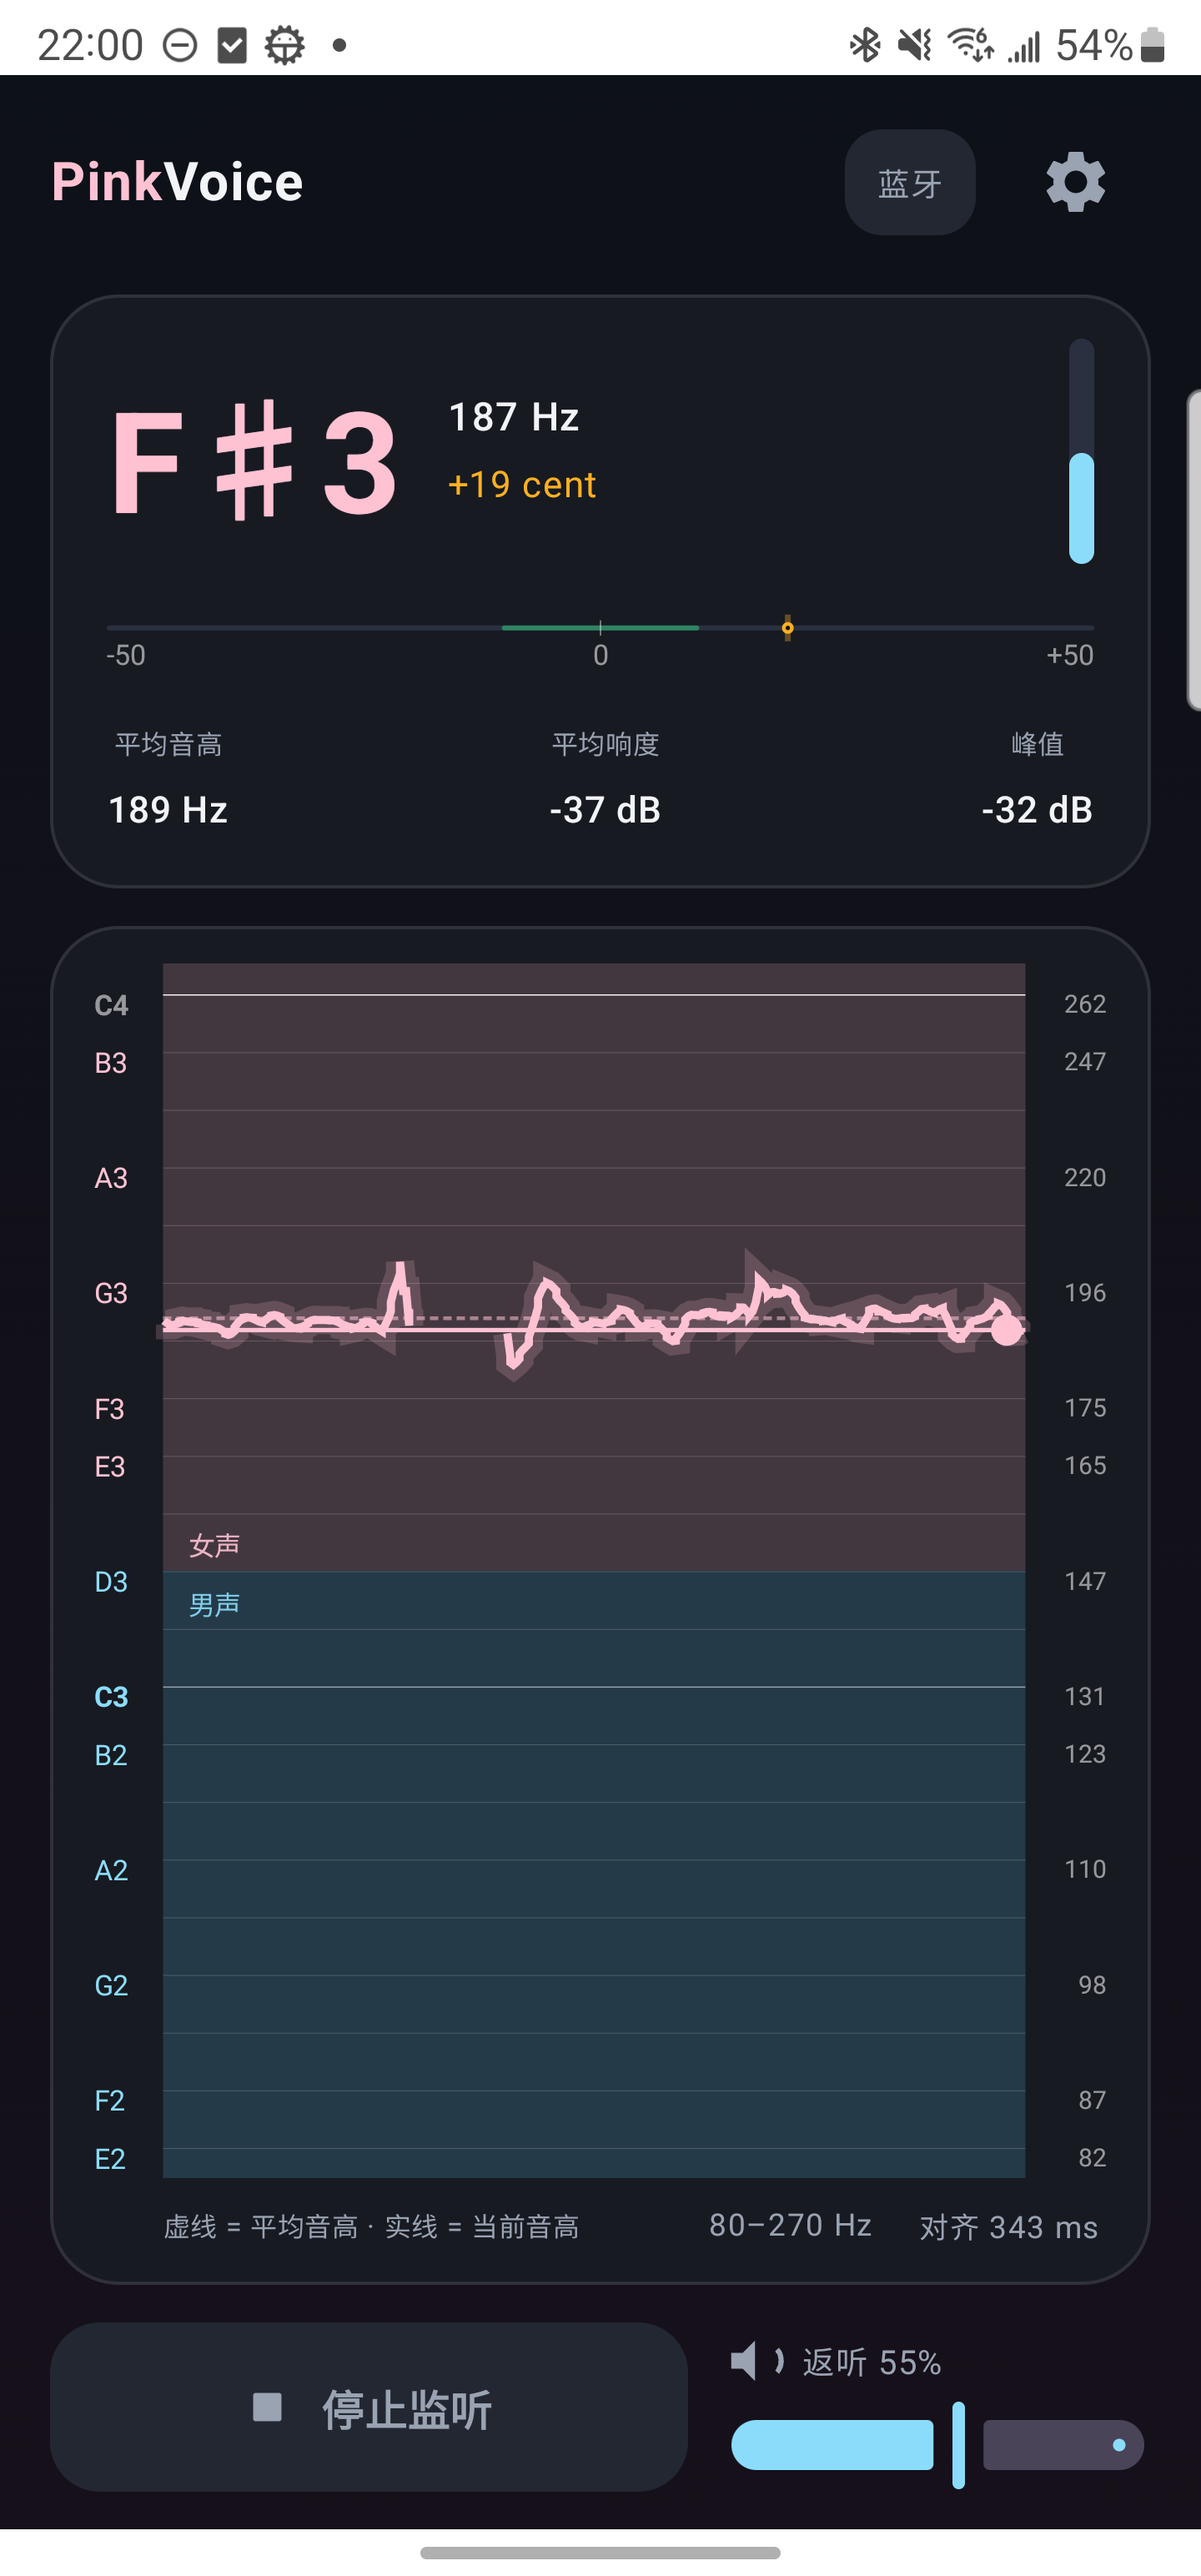
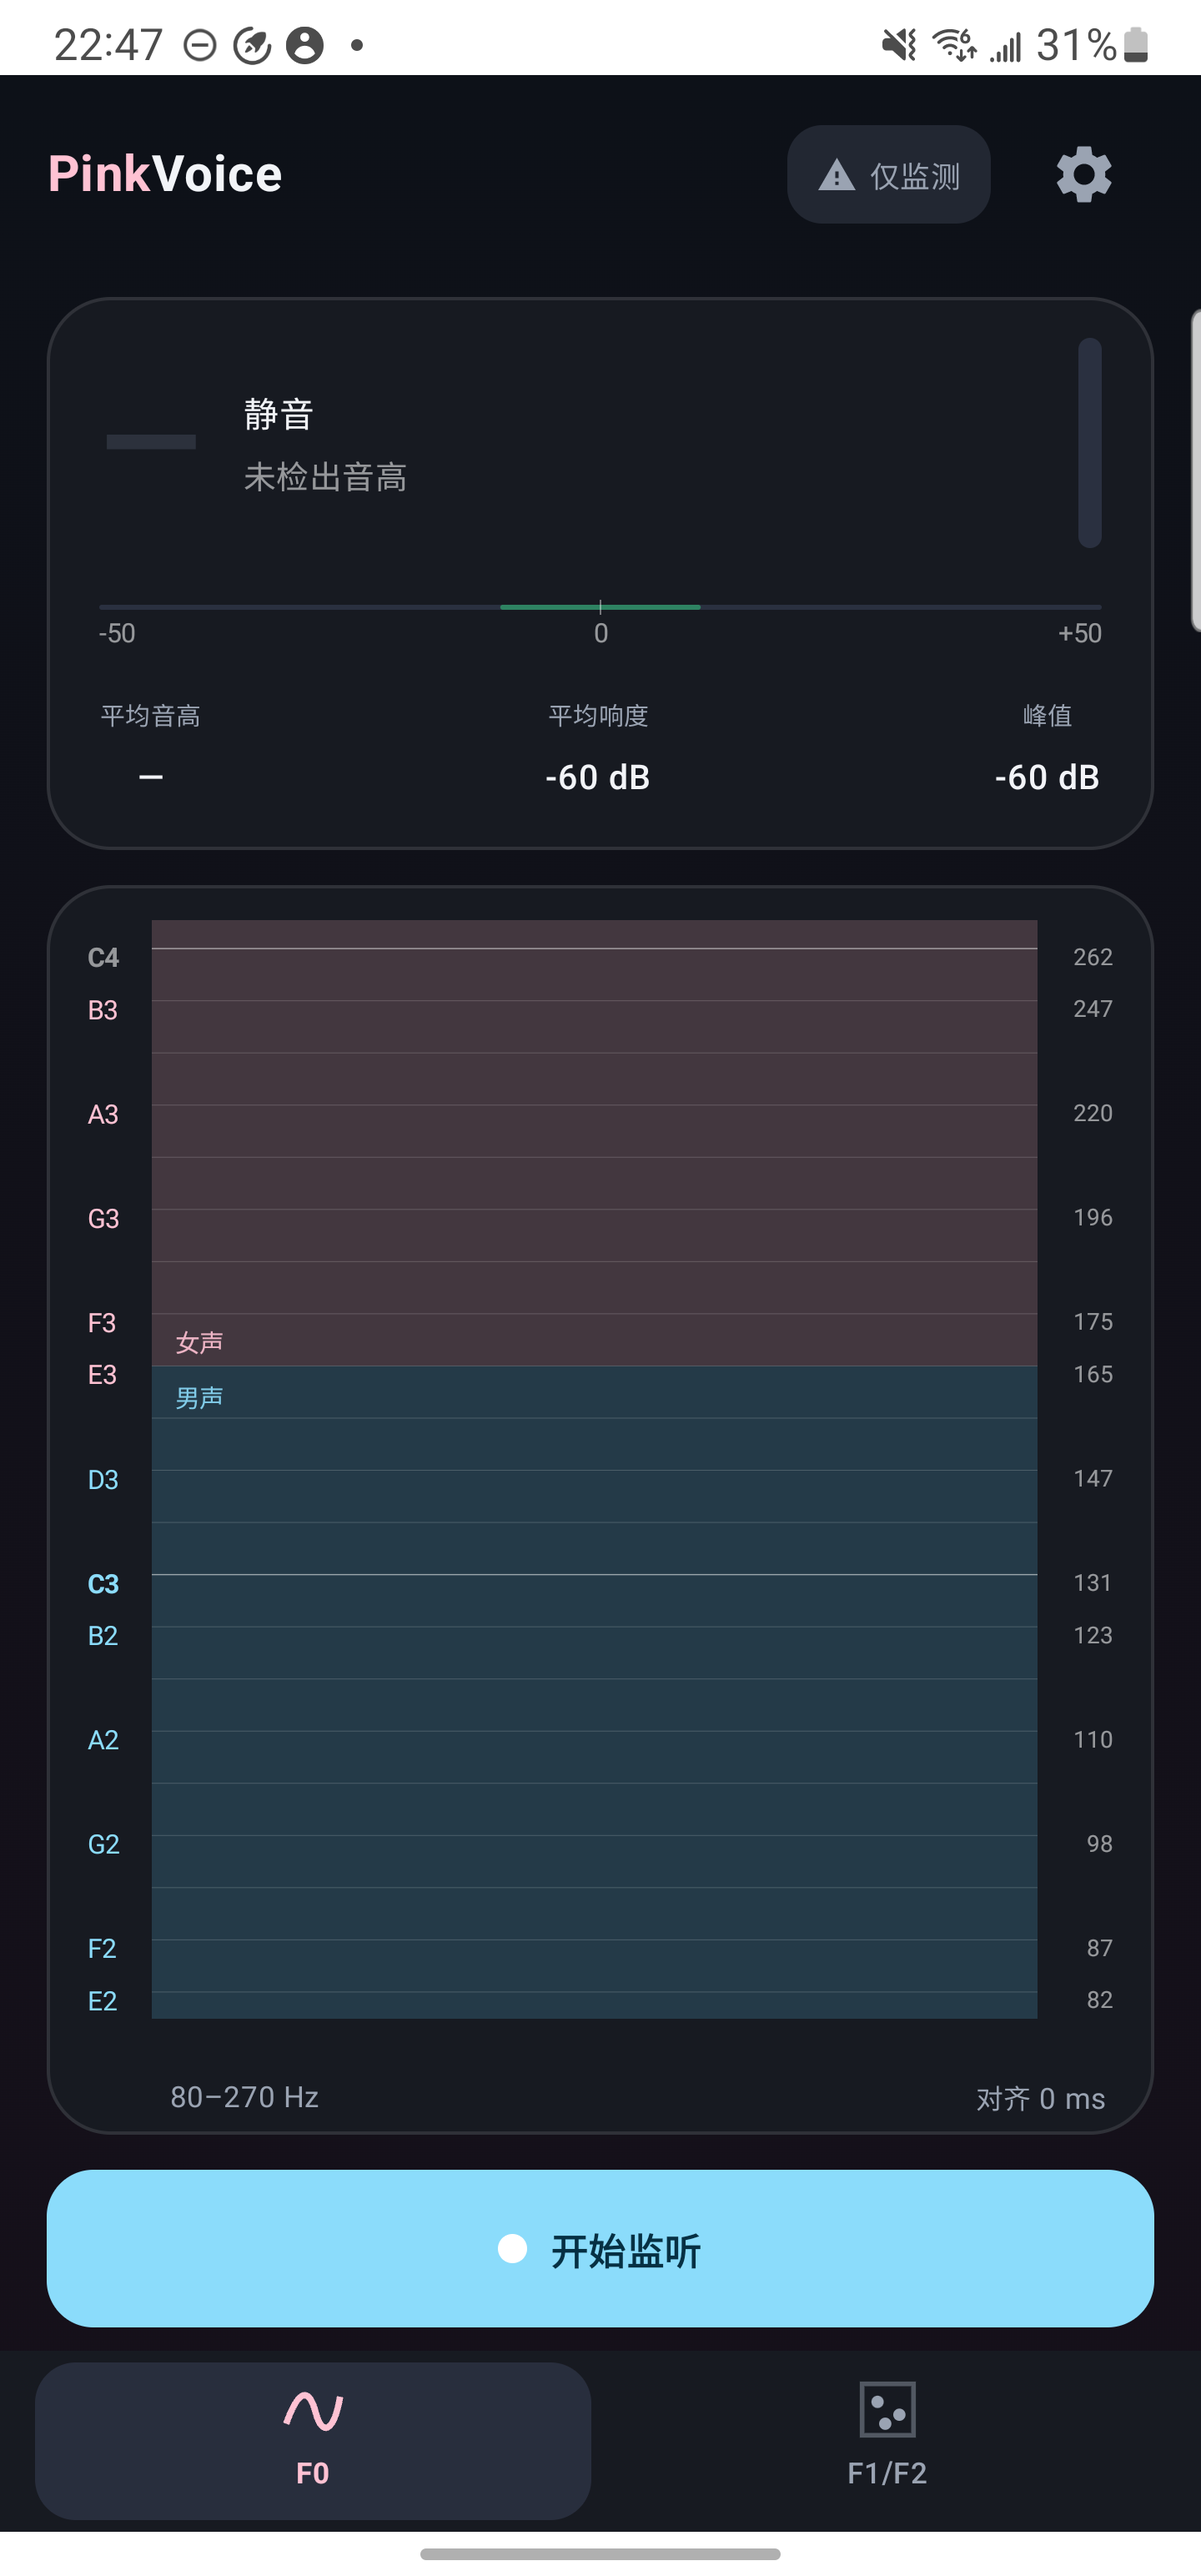
docs: README 截图更新到新界面
三张旧截图全是重构前的（没有底部导航、没有 F1/F2 页、
旧的底部按钮布局）。

- `light-theme-main.png` —— F0 页实拍（识别出 D3 / 144 Hz / −29 cent）
- `formants.png` —— F1/F2 页实拍（/i/ 落在「衣」上，稳态度 100%）
- `dark-theme.png` —— 深色主题
- `settings.png` —— 设置面板

特性表补了元音图、元音稳态训练、音色轴、底部导航四项。

diff --git a/README.md b/README.md
@@ -18,6 +18,10 @@
 | 特性 | 说明 |
 |---|---|
 | 实时 F0 曲线 | 对数频率轴，半音辅助线，标注男声区 / 女声区参考音域带 |
+| 元音图（F1/F2） | 实时显示你的共振峰位置，认出是哪个元音，告诉你离目标差多远 |
+| 元音稳态训练 | 选一个目标元音，看轨迹稳不稳、抖动多少音分 |
+| 音色轴 | 薄虚 ↔ 厚实，用你自己的声音作基准（录一段 /a/ 即可） |
+| 底部导航 | F0 / F1/F2 两个页面，随时切换 |
 | 音分指针表 | ±50 cent 偏差一眼可见，绿色为唱准区 |
 | 窗口统计 | 平均音高（曲线上有参考线）、平均响度与峰值 |
 | 同步返听 | 与分析并行，延迟 30–80 ms |
@@ -32,11 +36,12 @@
 | 无账号无内购 | 装了直接用，不需要注册，也没有付费墙 |
 
 <div align="center">
-  <img src="docs/screenshots/light-theme-main.png" width="270" alt="浅色主题">
+  <img src="docs/screenshots/light-theme-main.png" width="270" alt="F0 实时音高曲线">
+  <img src="docs/screenshots/formants.png" width="270" alt="元音图 F1/F2">
   <img src="docs/screenshots/dark-theme.png" width="270" alt="深色主题">
 </div>
 
-<p align="center"><sub>浅色 / 深色 / 跟随系统三档外观，设置面板里随时切换</sub></p>
+<p align="center"><sub>F0 曲线 · 元音图 · 浅色 / 深色 / 跟随系统三档外观</sub></p>
 
 <div align="center">
   <img src="docs/screenshots/settings.png" width="300" alt="设置面板">
